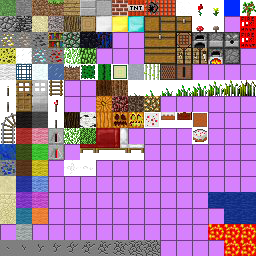
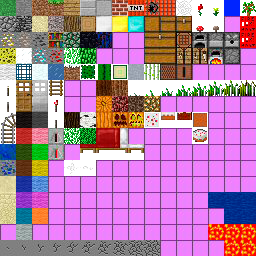
Fixed alpha rendering

diff --git a/main.cpp b/main.cpp
@@ -308,8 +308,8 @@ unsigned int Load_Texture(std::string file) {
     glTexParameteri(GL_TEXTURE_2D, GL_TEXTURE_MAG_FILTER, GL_NEAREST);
 
     int width, height;
-    unsigned char* image = SOIL_load_image(path.c_str(), &width, &height, 0, SOIL_LOAD_RGB);
-    glTexImage2D(GL_TEXTURE_2D, 0, GL_RGB, width, height, 0, GL_RGB, GL_UNSIGNED_BYTE, image); // TODO Switch to RGBA-format
+    unsigned char* image = SOIL_load_image(path.c_str(), &width, &height, 0, SOIL_LOAD_RGBA);
+    glTexImage2D(GL_TEXTURE_2D, 0, GL_RGBA, width, height, 0, GL_RGBA, GL_UNSIGNED_BYTE, image); // TODO Switch to RGBA-format
     glBindTexture(GL_TEXTURE_2D, 0);
     SOIL_free_image_data(image);
 

diff --git a/classes/Chunk.cpp b/classes/Chunk.cpp
@@ -36,8 +36,6 @@ std::map<unsigned char, glm::vec2> textureCoords = {
 	{16, glm::vec2(3, 3)}, // Coal Ore
 
 	{17, glm::vec2(5, 4)}, // Transparent Leaves
-
-	{30, glm::vec2(12, 1)}, // Cobweb
 };
 
 std::vector<glm::vec2> grassTextures = { glm::vec2(4, 1), glm::vec2(4, 1), glm::vec2(3, 1), glm::vec2(1, 1), glm::vec2(4, 1), glm::vec2(4, 1) }; // ID 2
